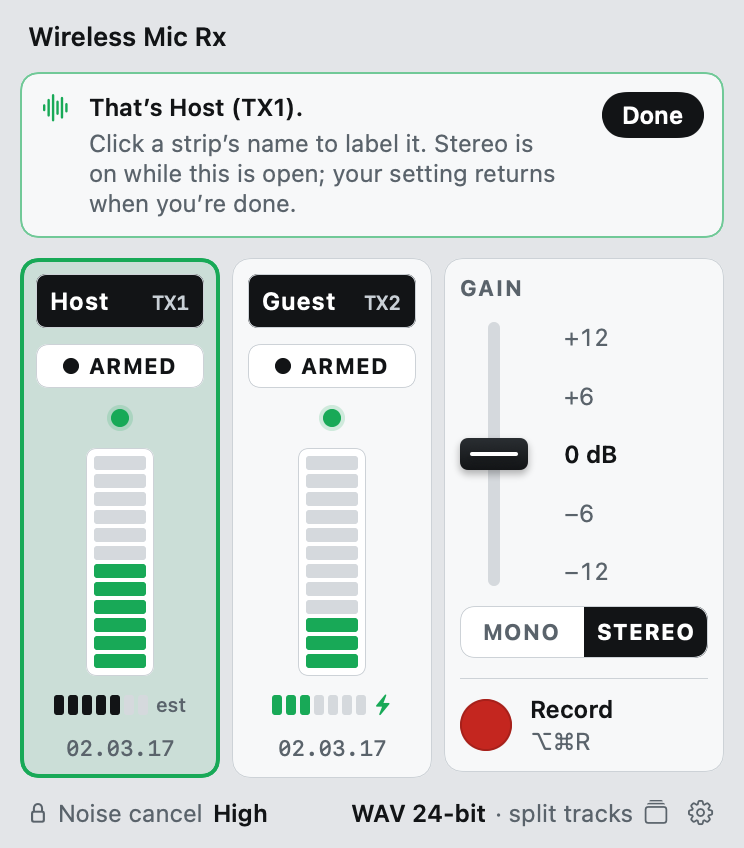
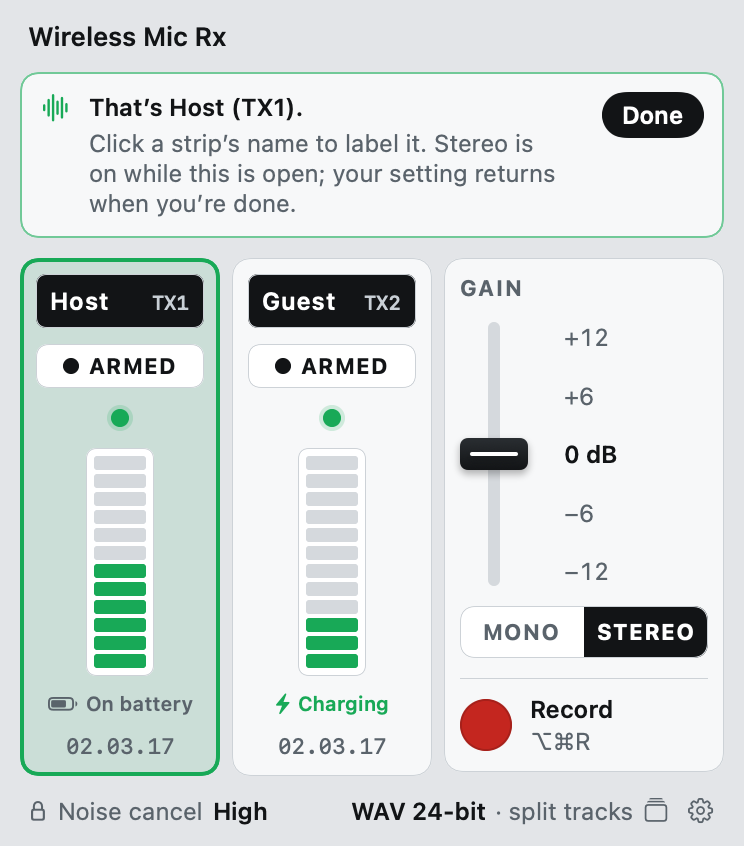
Battery: the Mobile RX's level field is a fixed placeholder, so show charging state only and drop false low-battery warnings; docs corrected

diff --git a/Sources/LavdeckApp/Components.swift b/Sources/LavdeckApp/Components.swift
@@ -100,28 +100,31 @@ struct LEDMeter: View {
     }
 }
 
-/// DJI reports battery as 0-7; shown as seven cells and labelled as an estimate.
-struct BatteryCells: View {
-    let level: Int?
-    var charging = false
+/// Whether a transmitter is charging. The Mobile RX relays the charging flag live but not the battery
+/// level (its level field stays at a fixed placeholder whatever the real charge), so no level is shown.
+struct ChargeState: View {
+    let charging: Bool?
 
     var body: some View {
-        HStack(spacing: 2) {
-            ForEach(0..<7, id: \.self) { i in
-                RoundedRectangle(cornerRadius: 1.5)
-                    .fill(level.map { i < $0 } == true ? (charging ? Theme.green : Theme.ink) : Theme.ledOff)
-                    .frame(width: 5, height: 10)
-            }
-            if charging {
-                Image(systemName: "bolt.fill").font(.system(size: 9, weight: .bold)).foregroundStyle(Theme.green).padding(.leading, 2)
-            } else {
-                Text("est").font(.system(size: 10, weight: .medium)).foregroundStyle(Theme.mute).padding(.leading, 2)
+        HStack(spacing: 3) {
+            switch charging {
+            case true?:
+                Image(systemName: "bolt.fill").font(.system(size: 9, weight: .bold))
+                Text("Charging")
+            case false?:
+                Image(systemName: "battery.75percent").font(.system(size: 10, weight: .medium))
+                Text("On battery")
+            case nil:
+                Text("—")
             }
         }
-        .help(level.map { "Battery \($0) of 7 (receiver estimate)\(charging ? ", charging" : "")" } ?? "Battery unknown")
+        .font(.system(size: 10, weight: .semibold))
+        .foregroundStyle(charging == true ? Theme.green : Theme.mute)
+        .frame(height: 12)
+        .help("The receiver reports whether this mic is charging, but not its battery level. DJI Mimo reads the level from the mic directly over Bluetooth.")
         .accessibilityElement()
-        .accessibilityLabel("Battery")
-        .accessibilityValue(level.map { "\($0) of 7, estimate\(charging ? ", charging" : "")" } ?? "unknown")
+        .accessibilityLabel("Charging")
+        .accessibilityValue(charging == true ? "charging" : charging == false ? "on battery" : "unknown")
     }
 }
 

diff --git a/Sources/LavdeckApp/AppModel.swift b/Sources/LavdeckApp/AppModel.swift
@@ -112,10 +112,10 @@ final class AppModel {
     var debugForceLowBattery = false
 
     /// Linked transmitters whose battery estimate is at or below 1 of 7.
+    /// Mics to warn about for low battery. The Mobile RX doesn't report battery level (its level field is a
+    /// fixed placeholder), so there's nothing truthful to warn on; only the snapshot aid uses this.
     var lowBattery: [Int] {
-        receiver.connectedTransmitters.filter {
-            debugForceLowBattery || ((transmitter($0)?.batteryLevel ?? 7) <= 1 && transmitter($0)?.isCharging != true)
-        }.sorted()
+        debugForceLowBattery ? receiver.connectedTransmitters.sorted() : []
     }
 
     var glyph: GlyphState {
@@ -554,12 +554,12 @@ final class AppModel {
     /// Battery level and charging flag per transmitter, as last logged.
     private var loggedBattery: [Int: String] = [:]
 
-    /// Appends a line to ~/Library/Logs/Lavdeck/battery.log whenever a transmitter's battery estimate or
-    /// charging flag changes, so charge and drain can be followed over time.
+    /// Appends a line to ~/Library/Logs/Lavdeck/battery.log whenever a transmitter's charging flag or raw
+    /// status changes, to keep studying what the receiver reports.
     private func logBattery(_ new: MicStatus) {
         for index in new.receiver.connectedTransmitters {
             guard let tx = new.transmitters[index], let level = tx.batteryLevel else { continue }
-            let state = "battery \(level)/7 charging \(tx.isCharging == true ? "yes" : "no")"
+            let state = "charging \(tx.isCharging == true ? "yes" : "no") (raw \(String(format: "%08x", tx.rawFlags ?? 0)), level field \(level))"
             guard loggedBattery[index] != state else { continue }
             loggedBattery[index] = state
             let folder = FileManager.default.homeDirectoryForCurrentUser.appendingPathComponent("Library/Logs/Lavdeck", isDirectory: true)

diff --git a/Sources/lavdeck/main.swift b/Sources/lavdeck/main.swift
@@ -54,7 +54,7 @@ func describe(_ status: MicStatus) -> String {
         let tx = status.transmitters[index]!
         let connected = rx.connectedTransmitters.contains(index) ? "connected" : "not connected"
         lines.append("TX\(index) \(tx.identity.productName ?? "?") [\(tx.identity.bluetoothID ?? "?")]  fw \(tx.identity.firmware ?? "?")"
-            + "  \(connected)  battery \(tx.batteryLevel.map { "\($0)/7" } ?? "?")\(tx.isCharging == true ? " charging" : "")"
+            + "  \(connected)  \(tx.isCharging == true ? "charging" : "on battery")"
             + "  meter \(tx.meterLevel.map(String.init) ?? "?")")
     }
     return lines.joined(separator: "\n")

diff --git a/Sources/LavdeckApp/PopoverView.swift b/Sources/LavdeckApp/PopoverView.swift
@@ -259,7 +259,7 @@ private struct ChannelStrip: View {
                 .help(!armed ? "Not armed: this mic is left out of recordings"
                       : model.metersAreMix ? "Mono mixes both mics, so this shows the mix. Switch to stereo for each mic’s own level."
                       : "This mic’s level, reported by the receiver")
-            BatteryCells(level: linked ? tx?.batteryLevel : nil, charging: linked && tx?.isCharging == true)
+            ChargeState(charging: linked ? tx?.isCharging : nil)
             Group {
                 if model.isRecording, !armed {
                     Text("not rec")

diff --git a/README.md b/README.md
@@ -30,15 +30,15 @@ Lavdeck talks to the receiver directly over USB. Plug it into your Mac and withi
 ## What it does
 
 <p align="center">
-  <img src="docs/images/popover-light.png" alt="Lavdeck idle: strips named Host and Guest with link lights, level meters, battery (Guest charging) and firmware, plus gain fader, mono/stereo switch and noise cancel set to High" width="32%">
+  <img src="docs/images/popover-light.png" alt="Lavdeck idle: strips named Host and Guest with link lights, level meters, charging state (Guest charging) and firmware, plus gain fader, mono/stereo switch and noise cancel set to High" width="32%">
   &nbsp;
   <img src="docs/images/identify-light.png" alt="Which mic is which? Host's strip lights up while Host talks, with a banner saying That's Host (TX1)" width="32%">
   &nbsp;
   <img src="docs/images/recording-dark.png" alt="Lavdeck recording in stereo, dark appearance: elapsed time in the header and each strip names the file it is writing" width="32%">
-  <br><sub>Named mics with battery and charging · finding which mic is which · recording in stereo</sub>
+  <br><sub>Named mics with charging state · finding which mic is which · recording in stereo</sub>
 </p>
 
-- **Live status for every mic:** link light, level meter, battery estimate, a ⚡ while it charges, and firmware for TX1 and TX2, straight from the receiver.
+- **Live status for every mic:** link light, level meter, whether it's charging, and firmware for TX1 and TX2, straight from the receiver.
 - **Noise cancelling at a glance:** shows whether the receiver's switch is on Off, Low or High.
 - **Mono / stereo** with one click. In stereo, TX1 is left and TX2 is right.
 - **Receiver gain** on a five‑detent fader: −12, −6, 0, +6, +12 dB.
@@ -50,12 +50,11 @@ Lavdeck talks to the receiver directly over USB. Plug it into your Mac and withi
 - **Takes survive quitting:** quit Lavdeck mid‑take (or let macOS "Quit & Reopen" it after a permission change) and the take is stopped and saved first.
 - **Recordings window:** every take in one list. Filter, sort and search, including inside transcripts. Play from any line of a transcript, and move a take to the Trash with all its files.
 - **Plugins:** add what happens alongside or after a recording, such as transcripts, screen and camera capture, or an editor, written in any language. See [Plugins](#plugins).
-- **Battery history:** every change in a mic's battery estimate or charging state is logged to `~/Library/Logs/Lavdeck/battery.log`, so you can see how long a charge lasts.
 - **A menu bar icon that tells you what's wrong** before you open anything:
 
 <p align="center">
   <img src="docs/images/menu-bar-states.png" alt="Menu bar icon states on light and dark menu bars: healthy, recording, mic disconnected, low battery, error, receiver not connected" width="70%">
-  <br><sub>Healthy · recording · a mic dropped · low battery · error · no receiver (light and dark menu bars)</sub>
+  <br><sub>Healthy · recording · a mic dropped · low battery (for receivers that report it) · error · no receiver (light and dark menu bars)</sub>
 </p>
 
 <p align="center">
@@ -99,7 +98,7 @@ Plug in the receiver (a USB hub must carry data, not just power) and click the i
 | Switch mono / stereo | Click **MONO** or **STEREO** in the popover |
 | Change gain | Drag the fader or click a value |
 | Tell the mics apart | **Which mic is which?**, then talk into one; click a strip's name to label it |
-| Check battery and charging | The cells under each meter (0–7 estimate); ⚡ while charging. History in `~/Library/Logs/Lavdeck/battery.log` |
+| See if a mic is charging | Under each meter: ⚡ Charging or On battery |
 | Record only one mic | Click **ARMED** on the other strip to turn it **OFF** |
 | Start / stop recording | **Record**, <kbd>⌥</kbd><kbd>⌘</kbd><kbd>R</kbd>, or tap a mic's link button |
 | Find your takes | Click the format label in the popover to open **Recordings**, or look in `~/Recordings/Lavdeck/<date>/` |
@@ -114,7 +113,7 @@ There's also a small command‑line tool for scripting and debugging:
 
 ```bash
 swift build -c release
-.build/release/lavdeck status --json    # live status, read-only (battery, charging, levels)
+.build/release/lavdeck status --json    # live status, read-only (charging, levels, settings)
 .build/release/lavdeck set channel stereo
 .build/release/lavdeck takes             # list recorded takes
 .build/release/lavdeck plugins           # list installed plugins
@@ -144,7 +143,7 @@ Start from [`Examples/plugins/take-info`](Examples/plugins/take-info), which inc
 
 **Known limits**
 
-- Battery is DJI's own 0–7 estimate, shown as such; there's no finer percentage to read. Charging is what each mic reports, and a mic that was just in use can take a few minutes to start charging.
+- **No battery level.** The Mobile RX passes on whether each mic is charging, but not how full it is: its battery field stays at the same placeholder whether a mic is empty or full. DJI Mimo reads the level from the mic directly over Bluetooth. A mic that was just in use can take a few minutes to start charging.
 - In mono the receiver mixes both mics, so each strip shows the mixed level (labelled **mono mix**). Switch to stereo to see each mic's own level.
 - The receiver accepts a per‑mic mute but doesn't act on it, so Lavdeck records one mic by keeping only its channel instead.
 - The Mac can't tell which mic's button was tapped; either one toggles recording.

diff --git a/docs/PROTOCOL.md b/docs/PROTOCOL.md
@@ -78,11 +78,11 @@ Payload: `03, total length (u16 LE), records…`. Each record is `type (1), inde
 | `0x05` | live level meter (1 byte, receiver units: ~30 quiet room, ~75 loud speech). Per mic in stereo; the mixed level in mono |
 | `0x06` | product name (ASCII) |
 
-Transmitter `w` (type `0x02`): bit 2 mute, bits 5–6 noise‑cancel level, bit 8 noise cancel, bit 9 charging, **bits 10–12 battery (0–7, receiver estimate)**, signed gain at byte `r+0x0d`.
+Transmitter `w` (type `0x02`): bit 2 mute, bits 5–6 noise‑cancel level, bit 8 noise cancel, **bit 9 charging (live)**, bits 10–12 named battery level in DJI's code but **a fixed placeholder on the Mobile RX** (always 1, with bit 13 set, whether the mic is empty or full; DJI Mimo reads the level from the mic over Bluetooth instead), signed gain at byte `r+0x0d`.
 
 Receiver `h` (type `0x03`): bits 0–1 environment, bit 2 lossless, bits 3–4 noise‑cancel level, **bit 5 noise cancel**, bit 8 auto power‑off, **bits 9–11 channel mode**, bits 13–15 receiver battery. Signed **gain (dB)** at byte `r+0x08`. **Connected transmitter mask** at byte `r+0x1e` (bit 0 = TX1, bit 1 = TX2). Byte `r+0x22` bit 3 = attached over USB.
 
-In mono the receiver mixes both mics before anything reaches the host, so both `0x05` meters carry the same mixed level; in stereo they track each mic separately (verified against left/right audio). Battery bits are the receiver's estimate.
+In mono the receiver mixes both mics before anything reaches the host, so both `0x05` meters carry the same mixed level; in stereo they track each mic separately (verified against left/right audio). The charging bit follows docking live; the battery-level bits don't change, so Lavdeck shows charging state only.
 
 ### Set params `0x5B/0x01`
 
